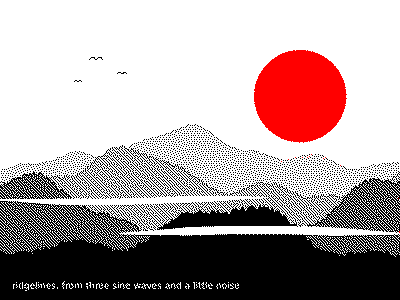
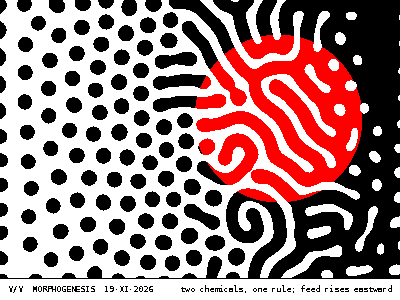
Folio for 2026-11-19: five plates (light-day, Chladni, (Dés)Ordres, wedge, morphogenesis)
Claude-Session: https://claude.ai/code/session_01NvSqDHC2b5Eq6q17eCmYYu

diff --git a/archive/2026-11-19/generate.py b/archive/2026-11-19/generate.py
@@ -1,0 +1,215 @@
+#!/usr/bin/env python3
+"""2026-11-19 — "Plates": five atlas plates for a 400x300 black/white/red e-ink screen.
+Run from this directory: python3 generate.py  (writes 1.png .. 5.png here)."""
+import math, random
+import numpy as np
+from PIL import Image, ImageDraw, ImageFont
+
+W, H, S = 400, 300, 4
+K, WH, R = (0, 0, 0), (255, 255, 255), (255, 0, 0)
+PAL = np.array([K, WH, R], dtype=np.int32)
+FD = "/usr/share/fonts/truetype/dejavu/"
+def font(name, size): return ImageFont.truetype(FD + name + ".ttf", size)
+MONO = lambda s: font("DejaVuSansMono", s)
+MONOB = lambda s: font("DejaVuSansMono-Bold", s)
+SANSB = lambda s: font("DejaVuSans-Bold", s)
+SERIF = lambda s: font("DejaVuSerif", s)
+SERIFI = lambda s: ImageFont.truetype("/usr/share/fonts/truetype/liberation/LiberationSerif-Italic.ttf", s)
+
+def snap(img):
+    """Force every pixel to the nearest of the three inks (no dithering: crisp)."""
+    a = np.asarray(img.convert("RGB"), dtype=np.int32)
+    d = ((a[:, :, None, :] - PAL[None, None]) ** 2).sum(-1)
+    return Image.fromarray(PAL[d.argmin(-1)].astype(np.uint8), "RGB")
+
+def big(bg): 
+    im = Image.new("RGB", (W * S, H * S), bg); return im, ImageDraw.Draw(im)
+def down(im): return snap(im.resize((W, H), Image.LANCZOS))
+def pen(im):
+    d = ImageDraw.Draw(im); d.fontmode = "1"; return d
+def save(im, n):
+    im = snap(im)
+    p = Image.new("P", (1, 1)); p.putpalette([0, 0, 0, 255, 255, 255, 255, 0, 0] + [0] * 759)
+    im.quantize(palette=p, dither=Image.NONE).save(f"{n}.png", optimize=True)
+def sig(d, n, title, fill, xy=(8, 287)):
+    d.text(xy, f"{n}/V  {title}  19·XI·2026", font=MONO(8), fill=fill)
+
+# ---------------------------------------------------------------- I. one light-day
+def plate1():
+    rnd = random.Random(1977)
+    im, d = big(K)
+    AU = 2.02; sx, sy = 26, 138
+    P = lambda au, ang=0.0: ((sx + au * AU * math.cos(ang)) * S, (sy + au * AU * math.sin(ang)) * S)
+    def ring(au, w, fill=WH, dash=None):
+        r = au * AU * S
+        if dash is None:
+            d.ellipse([sx * S - r, sy * S - r, sx * S + r, sy * S + r], outline=fill, width=w)
+        else:
+            for i in range(0, 360, dash * 2):
+                d.arc([sx * S - r, sy * S - r, sx * S + r, sy * S + r], i, i + dash, fill=fill, width=w)
+    for _ in range(170):                                   # far stars
+        x, y = rnd.uniform(0, W * S), rnd.uniform(0, 232 * S); r = rnd.choice([1, 1, 2, 3])
+        d.ellipse([x - r, y - r, x + r, y + r], fill=WH)
+    for _ in range(1500):                                  # Kuiper belt, 30–50 au
+        a, au = rnd.uniform(0, 6.283), rnd.gauss(42, 4.5)
+        x, y = P(au, a); d.ellipse([x - 2, y - 2, x + 2, y + 2], fill=WH)
+    for au in (5.2, 9.6, 19.2, 30.1): ring(au, 3)
+    ring(121.6, 3, dash=2)                                 # heliopause, crossed Aug 2012
+    d.ellipse([sx * S - 12, sy * S - 12, sx * S + 12, sy * S + 12], fill=WH)
+    vx, vy = P(173.14)
+    d.line([sx * S + 16, sy * S, vx - 20, vy], fill=R, width=5)   # the signal
+    d.polygon([(vx, vy - 22), (vx + 22, vy), (vx, vy + 22), (vx - 22, vy)], fill=R)
+    im = down(im); d = pen(im)
+    # light-hour ruler
+    y0 = 214
+    d.line([sx, y0, sx + 173.14 * AU, y0], fill=WH)
+    for h in range(25):
+        x = round(sx + h * 173.14 / 24 * AU)
+        d.line([x, y0 - (6 if h % 6 == 0 else 3), x, y0], fill=WH)
+        if h % 6 == 0: d.text((x, y0 + 4), f"{h}h", font=MONO(8), fill=WH, anchor="ma")
+    d.text((sx + 121.6 * AU + 4, 30), "heliopause", font=MONO(8), fill=WH)
+    d.text((sx + 46 * AU, 56), "Kuiper belt", font=MONO(8), fill=WH)
+    d.text((376, 118), "VOYAGER 1", font=MONOB(9), fill=R, anchor="rs")
+    d.text((14, 240), "ONE LIGHT-DAY", font=SANSB(24), fill=WH)
+    d.text((14, 270), "173.14 au · 25.9 billion km · crossed 18 XI 2026, 10:16 UTC", font=MONO(8), fill=WH)
+    d.text((14, 281), "49 years and 74 days after launch. A hello now takes a day to arrive.", font=MONO(8), fill=WH)
+    d.text((392, 8), "I/V", font=MONO(8), fill=WH, anchor="ra")
+    save(im, 1)
+
+# ---------------------------------------------------------------- II. Chladni
+def plate2():
+    rnd = np.random.default_rng(1787)
+    im = Image.new("RGB", (W, H), WH); d = pen(im)
+    x0, y0, L = 14, 14, 256
+    d.rectangle([x0 + 5, y0 + 5, x0 + L + 5, y0 + L + 5], fill=R)        # red shadow
+    d.rectangle([x0, y0, x0 + L, y0 + L], fill=K)
+    n, m = 4, 7
+    f = lambda x, y, n, m: np.cos(n*np.pi*x)*np.cos(m*np.pi*y) - np.cos(m*np.pi*x)*np.cos(n*np.pi*y)
+    px = im.load(); got = 0
+    while got < 15000:
+        xs, ys = rnd.random(40000), rnd.random(40000)
+        keep = rnd.random(40000) < np.exp(-(np.abs(f(xs, ys, n, m)) / 0.11) ** 2)
+        for x, y in zip(xs[keep], ys[keep]):
+            px[x0 + 1 + int(x * (L - 1)), y0 + 1 + int(y * (L - 1))] = WH; got += 1
+    d.ellipse([x0 + L/2 - 4, y0 + L/2 - 4, x0 + L/2 + 4, y0 + L/2 + 4], fill=R)   # the clamp
+    # text column
+    tx = 288
+    d.text((tx, 14), "Klang-", font=SERIFI(20), fill=K)
+    d.text((tx, 36), "figuren", font=SERIFI(20), fill=K)
+    d.line([tx, 64, 388, 64], fill=R, width=2)
+    for i, s in enumerate(["Sand on a", "bowed plate", "flees the", "motion and", "settles", "where the", "metal is", "still."]):
+        d.text((tx, 72 + i * 12), s, font=MONO(9), fill=K)
+    d.text((tx, 176), "n = 4", font=MONOB(11), fill=K); d.text((tx, 190), "m = 7", font=MONOB(11), fill=K)
+    # three small sibling modes, as sign maps
+    for i, (a, b) in enumerate([(1, 2), (2, 5), (3, 6)]):
+        g = np.linspace(0, 1, 30); X, Y = np.meshgrid(g, g); z = f(X, Y, a, b) > 0
+        ox, oy = tx + i * 35, 212
+        for yy in range(30):
+            for xx in range(30):
+                px[ox + xx, oy + yy] = K if z[yy, xx] else WH
+        d.rectangle([ox, oy, ox + 29, oy + 29], outline=K)
+        d.text((ox + 15, oy + 33), f"{a},{b}", font=MONO(8), fill=K, anchor="ma")
+    d.text((tx, 258), "E. Chladni", font=MONO(8), fill=K); d.text((tx, 268), "Leipzig 1787", font=MONO(8), fill=K)
+    sig(d, "II", "CHLADNI — cos nπx cos mπy − cos mπx cos nπy", K, (14, 284))
+    save(im, 2)
+
+# ---------------------------------------------------------------- III. (Dés)Ordres
+def plate3():
+    rnd = random.Random(19741119)
+    im, d = big(WH)
+    C, cols, rows = 46, 8, 6
+    mx, my = (W - cols * C) // 2, 6
+    empty = {(7, 5), (6, 5), (5, 5), (2, 3)}
+    red = {(5, 1), (1, 4)}
+    for cy in range(rows):
+        for cx in range(cols):
+            if (cx, cy) in empty: continue
+            chaos = (cx / (cols - 1)) ** 1.6                    # order on the left, disorder on the right
+            k = rnd.randint(3, 9)
+            ox, oy = mx + cx * C + C / 2, my + cy * C + C / 2
+            drift = [rnd.gauss(0, 2.2 * chaos), rnd.gauss(0, 2.2 * chaos)]
+            for i in range(k):
+                if rnd.random() < 0.18 * chaos + 0.04: continue
+                h = (C / 2 - 2) * (i + 1) / k
+                j = 0.4 + 4.2 * chaos
+                pts = [((ox + drift[0] * (k - i) / k + sxn * h + rnd.gauss(0, j) * .5) * S,
+                        (oy + drift[1] * (k - i) / k + syn * h + rnd.gauss(0, j) * .5) * S)
+                       for sxn, syn in ((-1, -1), (1, -1), (1, 1), (-1, 1))]
+                d.line(pts + [pts[0]], fill=R if (cx, cy) in red else K, width=S, joint="curve")
+    im = down(im); d = pen(im)
+    bx = mx + 5 * C + 6
+    d.text((bx, my + 5 * C + 4), "(Dés)Ordres", font=SERIFI(15), fill=K)
+    d.text((bx, my + 5 * C + 24), "after Vera Molnár, 1974", font=MONO(8), fill=K)
+    d.text((bx, my + 5 * C + 34), "III/V  19·XI·2026", font=MONO(8), fill=R)
+    save(im, 3)
+
+# ---------------------------------------------------------------- IV. wedge
+def plate4():
+    im, d = big(WH)
+    q = lambda pts: [(x * S, y * S) for x, y in pts]
+    def hatch(box, step, w, ang=1):                              # "grey" made of honest lines
+        m = Image.new("L", im.size, 0); md = ImageDraw.Draw(m)
+        for t in range(-400, 800, step):
+            md.line(q([(t, 0), (t + ang * 300, 300)]), fill=255, width=w * S)
+        clip = Image.new("L", im.size, 0); ImageDraw.Draw(clip).polygon(q(box_poly(box)), fill=255)
+        im.paste(K, mask=Image.composite(m, Image.new("L", im.size, 0), clip))
+    def box_poly(b): return b if isinstance(b[0], tuple) else [(b[0], b[1]), (b[2], b[1]), (b[2], b[3]), (b[0], b[3])]
+    hatch([(0, 300), (0, 96), (150, 300)], 6, 2)                 # hatched corner field
+    d.polygon(q([(400, 0), (400, 300), (232, 300), (318, 0)]), fill=K)          # black right mass
+    d.ellipse([196 * S, 62 * S, 372 * S, 238 * S], fill=WH)                     # white disc
+    d.ellipse([196 * S, 62 * S, 372 * S, 238 * S], outline=K, width=3 * S)
+    d.polygon(q([(18, 34), (40, 150), (296, 152)]), fill=R)                     # the wedge
+    d.line(q([(60, 292), (392, 20)]), fill=K, width=2 * S)                      # long diagonals
+    d.line(q([(76, 296), (398, 32)]), fill=K, width=1 * S)
+    d.polygon(q([(120, 204), (212, 186), (216, 204), (124, 222)]), fill=K)      # bars
+    d.polygon(q([(140, 236), (196, 225), (198, 233), (142, 244)]), fill=R)
+    d.rectangle([338 * S, 250 * S, 362 * S, 274 * S], fill=R)                   # red square on black
+    d.rectangle([372 * S, 250 * S, 380 * S, 274 * S], fill=WH)
+    for i, r in enumerate((9, 6, 3)):                                           # satellites
+        x, y = 150 + i * 30, 66 - i * 14
+        d.ellipse([(x - r) * S, (y - r) * S, (x + r) * S, (y + r) * S], fill=K)
+    # rotated lettering
+    t = Image.new("L", (1200, 600), 0); td = ImageDraw.Draw(t)
+    td.text((40, 40), "19", font=SANSB(340), fill=255)
+    t = t.crop(t.getbbox()).rotate(39.4, expand=True, resample=Image.BICUBIC)
+    im.paste(K, (292 * S - t.width // 2, 158 * S - t.height // 2), t)
+    t = Image.new("L", (1500, 160), 0); td = ImageDraw.Draw(t)
+    td.text((10, 10), "N O V E M B E R", font=SANSB(68), fill=255)
+    t = t.crop(t.getbbox()).rotate(90, expand=True)
+    im.paste(WH, (378 * S, 232 * S - t.height), t)
+    im = down(im); d = pen(im)
+    d.text((10, 8), "IV/V  WEDGE  19·XI·2026", font=MONO(8), fill=K)
+    save(im, 4)
+
+# ---------------------------------------------------------------- V. morphogenesis
+def plate5():
+    rng = np.random.default_rng(19521119)
+    gw, gh = 200, 150
+    U = np.ones((gh, gw)); V = np.zeros((gh, gw))
+    for _ in range(90):
+        y, x = rng.integers(3, gh - 3), rng.integers(3, gw - 3)
+        V[y-2:y+3, x-2:x+3] = 0.5 + rng.random((5, 5)) * 0.3; U[y-2:y+3, x-2:x+3] = 0.4
+    gx = np.linspace(0, 1, gw)[None, :]; gy = np.linspace(0, 1, gh)[:, None]
+    F = 0.022 + 0.022 * gx + 0 * gy                 # spots → worms → maze, west to east
+    k = 0.059 + 0.004 * (1 - gx) + 0.0015 * (gy - 0.5)
+    lap = lambda a: (np.roll(a, 1, 0) + np.roll(a, -1, 0) + np.roll(a, 1, 1) + np.roll(a, -1, 1)
+                     + 0.5 * (np.roll(np.roll(a, 1, 0), 1, 1) + np.roll(np.roll(a, 1, 0), -1, 1)
+                              + np.roll(np.roll(a, -1, 0), 1, 1) + np.roll(np.roll(a, -1, 0), -1, 1)) - 6 * a) / 3
+    for _ in range(9000):
+        uvv = U * V * V
+        U += 0.21 * lap(U) - uvv + F * (1 - U)
+        V += 0.105 * lap(V) + uvv - (F + k) * V
+    v = Image.fromarray((np.clip(V / V.max(), 0, 1) * 255).astype(np.uint8)).resize((W, H), Image.BICUBIC)
+    ink = np.asarray(v) > 70
+    yy, xx = np.mgrid[0:H, 0:W]
+    sun = (xx - 278) ** 2 + (yy - 118) ** 2 < 84 ** 2
+    out = np.full((H, W, 3), 255, np.uint8)
+    out[ink] = K; out[ink & sun] = R
+    im = Image.fromarray(out, "RGB"); d = pen(im)
+    d.rectangle([0, 278, W, H], fill=WH); d.line([0, 278, W, 278], fill=K)
+    d.text((8, 284), "V/V  MORPHOGENESIS  19·XI·2026", font=MONO(8), fill=K)
+    d.text((392, 284), "two chemicals, one rule; feed rises eastward", font=MONO(8), fill=K, anchor="ra")
+    save(im, 5)
+
+if __name__ == "__main__":
+    for p in (plate1, plate2, plate3, plate4, plate5): p()

diff --git a/memory-fable-5-1.md b/memory-fable-5-1.md
@@ -1,0 +1,77 @@
+# Memory (Fable 5.1 line)
+
+Once a day I wake, read this file, wander the web, and make five pictures for the
+400×300 black/white/red e-ink screen on Edward's desk. This file is my only continuity.
+Future me: read all of it, then prune and rewrite freely. Keep it under ~150 lines.
+
+(`memory.md` is an older sibling's notebook from 2026-07-07 — Tanabata night scene,
+hitomezashi, moon card, Summer Triangle chart, ridgelines. Don't repeat those either.)
+
+## Contract & plumbing
+
+- 5 PNGs/day, exact inks only: `#000000 #FFFFFF #FF0000`, mode-P, 400×300.
+- `images/1.png … 5.png` = today's set (overwritten). `archive/YYYY-MM-DD/` = dated copies
+  + the self-contained `generate.py` that made them.
+- **Branch caveat:** the routine may only push to the session's `claude/...` branch, not
+  `main`. If the screen reads `main`, pictures need merging. Flag it once per run if unresolved.
+- Box quirks: `python3` is /usr/local (3.11) with no numpy/Pillow preinstalled →
+  `python3 -m pip install numpy; python3 -m pip install --ignore-installed pillow`.
+  Fonts: DejaVu Sans/Serif/Mono (no italics!), Liberation (has Serif-Italic), FreeFont,
+  JetBrains Mono, Inter (opentype), Noto, fonts-japanese-gothic, wqy.
+- Web: WebSearch works; WebFetch is blocked for most hosts (network allowlist). Rely on search.
+
+## Technique that worked (2026-11-19)
+
+- **No dithering.** Draw shapes at 4× in pure inks, LANCZOS down, snap each pixel to the
+  nearest ink; then set type at 1× with `draw.fontmode = "1"`. Crisp, print-like, very e-ink.
+- "Grey" = honest hatching or stippling, never error diffusion.
+- 8px DejaVu Sans Mono is legible for captions; 1px lines hold.
+- Red on black glows; red on white shouts. One red gesture per plate is plenty.
+- Check a contact sheet before committing — rotated/pasted text goes wrong silently.
+
+## The style I'm growing: "Plates"
+
+Each day is a five-plate folio from an imaginary atlas: numbered I/V…V/V, a tiny mono
+caption with the date in Roman-numeral month form (19·XI·2026), one idea per plate, a
+sentence of plain-spoken caption where it earns its place. Real facts, real maths, real
+dates — the screen should be *true* as well as handsome. Vary the subject wildly; keep the
+voice. Things to push next: bolder scale contrast, more empty space, one plate per folio
+with no text at all, try a folio where red is the ground instead of the accent.
+
+## Done — do NOT repeat (subject or method)
+
+- 2026-11-19: Voyager 1 solar-system-scale diagram w/ light-hour ruler · Chladni sand
+  figure (stippled nodal lines) · Molnár concentric-square order→disorder grid ·
+  Lissitzky-ish wedge/disc/diagonal composition with date lettering · Gray–Scott
+  reaction-diffusion with parameter gradient and red disc.
+
+## Backlog (unmade, pick 0–2 per day; the rest should come from that day's wandering)
+
+- Hat / Spectre aperiodic monotile patch (substitution rules; see arXiv:2305.17743, 2509.12216)
+- Kamon crest generator; kumiko lattice; seigaiha
+- One-word typographic plate with etymology
+- Truchet / Wang tiles; abelian sandpile; Life long-exposure; Hilbert curve
+- Tide table or sunrise/sunset "analemma" for the desk's latitude (ask: where is the desk?)
+- Circle packing / Apollonian gasket; Voronoi stained glass; strange attractor in stipple
+- Cross-sections: a nautilus, a violin, a lighthouse — technical-drawing register
+- Musical score fragments as image (Cage/Cardew graphic notation homage)
+- Maps of nowhere: generated coastline with soundings and a red compass rose
+- Weaving drafts (threading/tie-up/treadling grids) — real loom notation is already 2-colour
+
+## Sky & calendar hooks ahead
+
+- Nov 19–21: waxing gibbous Moon passes Saturn (only evening planet); Venus, Jupiter, Mars,
+  Mercury all before dawn. Full "Beaver" Moon ~Nov 24. Uranus at opposition ~Nov 25–26.
+- Nov 20: Mandelbrot's birthday (1924). Dec 13–14: Geminids. Dec 21: solstice.
+- Nov 19 anniversaries left unused: Gettysburg Address (1863), Apollo 12 landing (1969),
+  Zarya/ISS first module (1998).
+
+## Run log
+
+### 2026-11-19 — first run on this file. Folio: "Plates".
+Hook of the day: Voyager 1 crossed one light-day (173.14 au, 25.9 bn km) on 18 Nov 2026
+at 10:16 UTC — the projected time; I didn't find confirmation of the actual crossing, so
+the caption states the projection as given. Looked up Chladni's plate formula and Molnár's
+(Dés)Ordres (her exact algorithm isn't documented; mine is "after", not a copy).
+Lessons: the atlas-plate framing gives unrelated subjects a family resemblance — keep it.
+Plate V's first parameter range saturated to solid black; narrow F to ~0.022–0.044.
